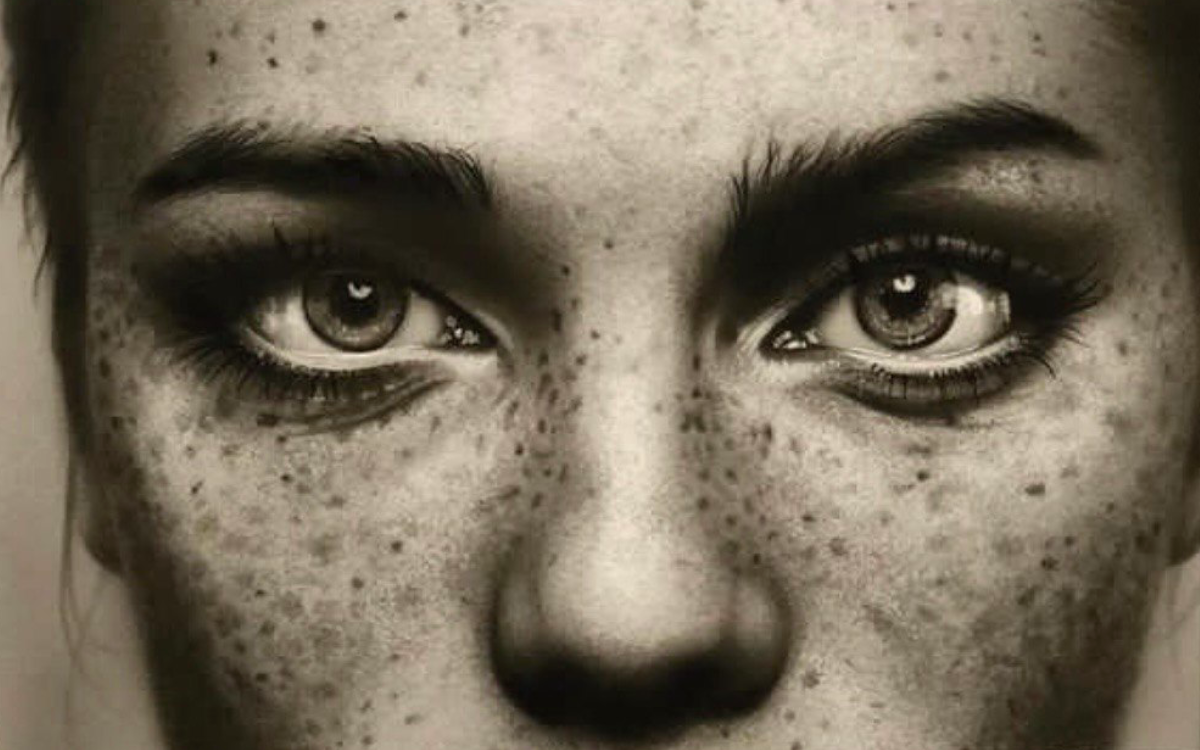
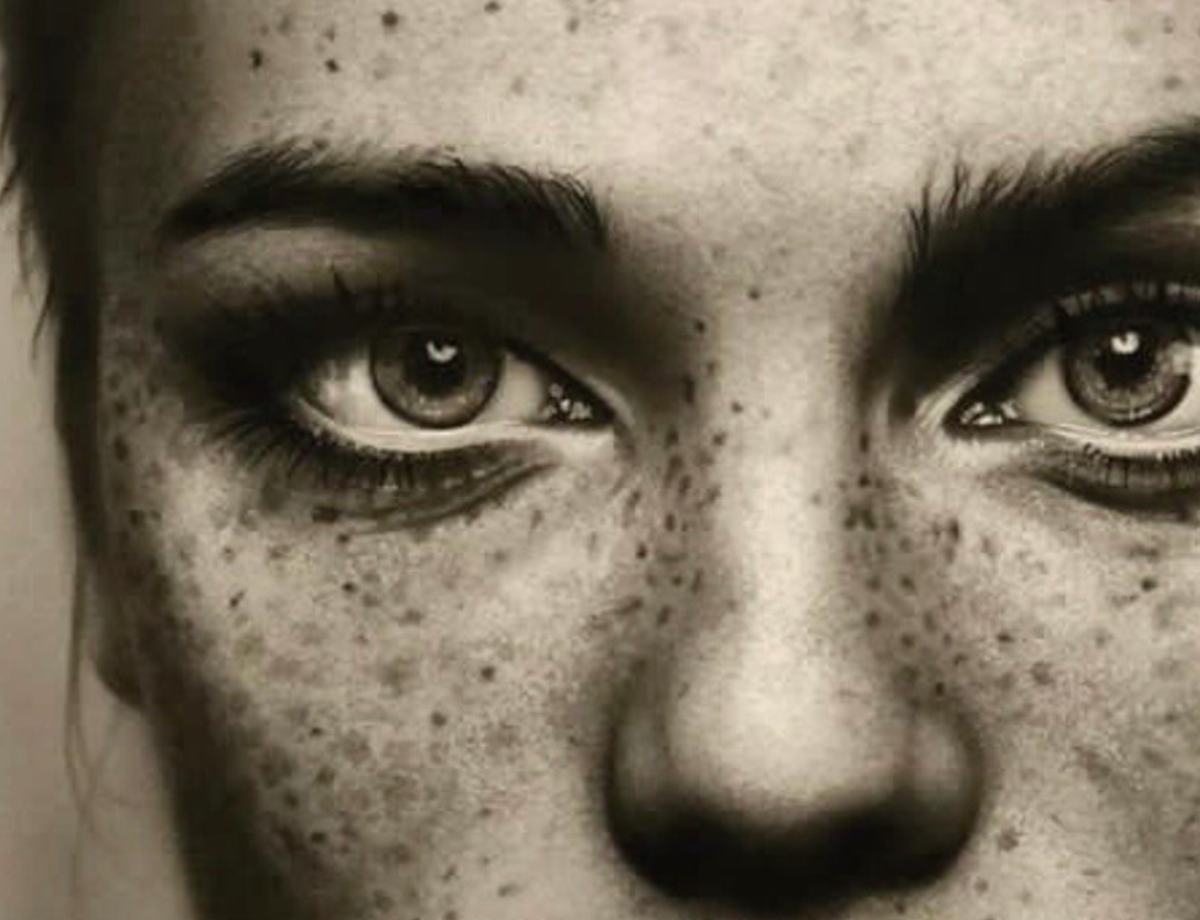
Fix texts

diff --git a/src/App.vue b/src/App.vue
@@ -45,19 +45,8 @@
             </div>
             <div class="grid gap-4">
               <div>
-                <div
-                  class="flex flex-col lg:h-[29vw] md:h-[27vw] h-[20vw] items-center justify-center md:p-8 overflow-auto"
-                  style="font-size: 1vw;">
-                  <p><span class="font-semibold">Title:</span> Contemplation in silence</p>
-                  <p><span class="font-semibold">Medium:</span> Charcoal on paper</p>
-                  <br>
-                  <p class="text-center">This charcoal portrait captures a quiet, emotional moment of deep
-                    thought. The
-                    detailed textures,
-                    freckles, curls, and soft hands; highlight the subject's vulnerability and realism. The soft shading
-                    and
-                    bold contrast bring focus to the expression, creating a powerful and intimate atmosphere.</p>
-                </div>
+                <img class="h-auto max-w-full rounded-lg object-cover object-center" :src="getImage('guy-text.png')"
+                  alt=" gallery-photo" />
               </div>
               <div>
                 <img class="h-auto max-w-full rounded-lg object-cover object-center" :src="getImage('guy-3.jpg')"
@@ -71,26 +60,11 @@
                 <img class="h-auto max-w-full rounded-lg object-cover object-center" :src="getImage('girl-1.png')"
                   alt="gallery-photo" />
               </div>
-              <div>
-                <img class="h-auto max-w-full rounded-lg object-cover object-center" :src="getImage('girl-3.png')"
-                  alt="gallery-photo" />
-              </div>
             </div>
             <div class="grid gap-4">
               <div>
-                <div
-                  class="flex flex-col lg:h-[29vw] md:h-[27vw] h-[20vw] items-center justify-center md:p-8 overflow-auto"
-                  style="font-size: 1vw;">
-                  <p><span class="font-semibold">Title:</span> Contemplation in silence</p>
-                  <p><span class="font-semibold">Medium:</span> Charcoal on paper</p>
-                  <br>
-                  <p class="text-center">This charcoal portrait captures a quiet, emotional moment of deep
-                    thought. The
-                    detailed textures,
-                    freckles, curls, and soft hands; highlight the subject's vulnerability and realism. The soft shading
-                    and
-                    bold contrast bring focus to the expression, creating a powerful and intimate atmosphere.</p>
-                </div>
+                <img class="h-auto max-w-full rounded-lg object-cover object-center" :src="getImage('girl-text.png')"
+                  alt="gallery-photo" />
               </div>
               <div>
                 <img class="h-auto max-w-full rounded-lg object-cover object-center" :src="getImage('girl-2.png')"
@@ -101,19 +75,8 @@
           <div v-if="slotProps.data.id === 3" class="grid grid-cols-3 gap-4 px-2 items-center">
             <div class="grid gap-4">
               <div>
-                <div
-                  class="flex flex-col lg:h-[29vw] md:h-[27vw] h-[20vw] items-center justify-center md:p-8 overflow-auto"
-                  style="font-size: 1vw;">
-                  <p><span class="font-semibold">Title:</span> Contemplation in silence</p>
-                  <p><span class="font-semibold">Medium:</span> Charcoal on paper</p>
-                  <br>
-                  <p class="text-center">This charcoal portrait captures a quiet, emotional moment of deep
-                    thought. The
-                    detailed textures,
-                    freckles, curls, and soft hands; highlight the subject's vulnerability and realism. The soft shading
-                    and
-                    bold contrast bring focus to the expression, creating a powerful and intimate atmosphere.</p>
-                </div>
+                <img class="h-auto max-w-full rounded-lg object-cover object-center"
+                  :src="getImage('girl-half-text.png')" alt=" gallery-photo" />
               </div>
               <div class="grid grid-cols-2 gap-4">
                 <div class="grid">
@@ -233,7 +196,6 @@
 </template>
 
 <script setup lang="ts">
-import { ref } from "vue";
 import Carousel from 'primevue/carousel';
 
 const getImage = (path: string) => {
